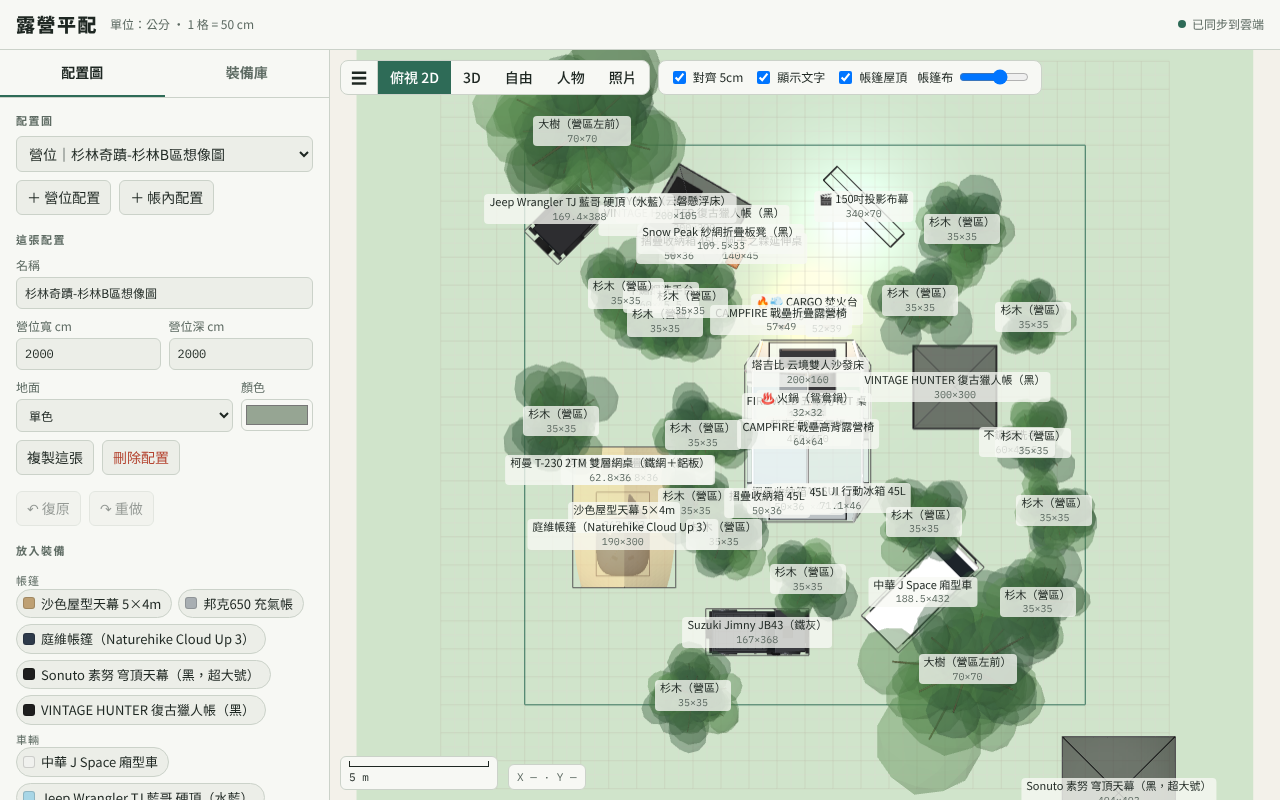
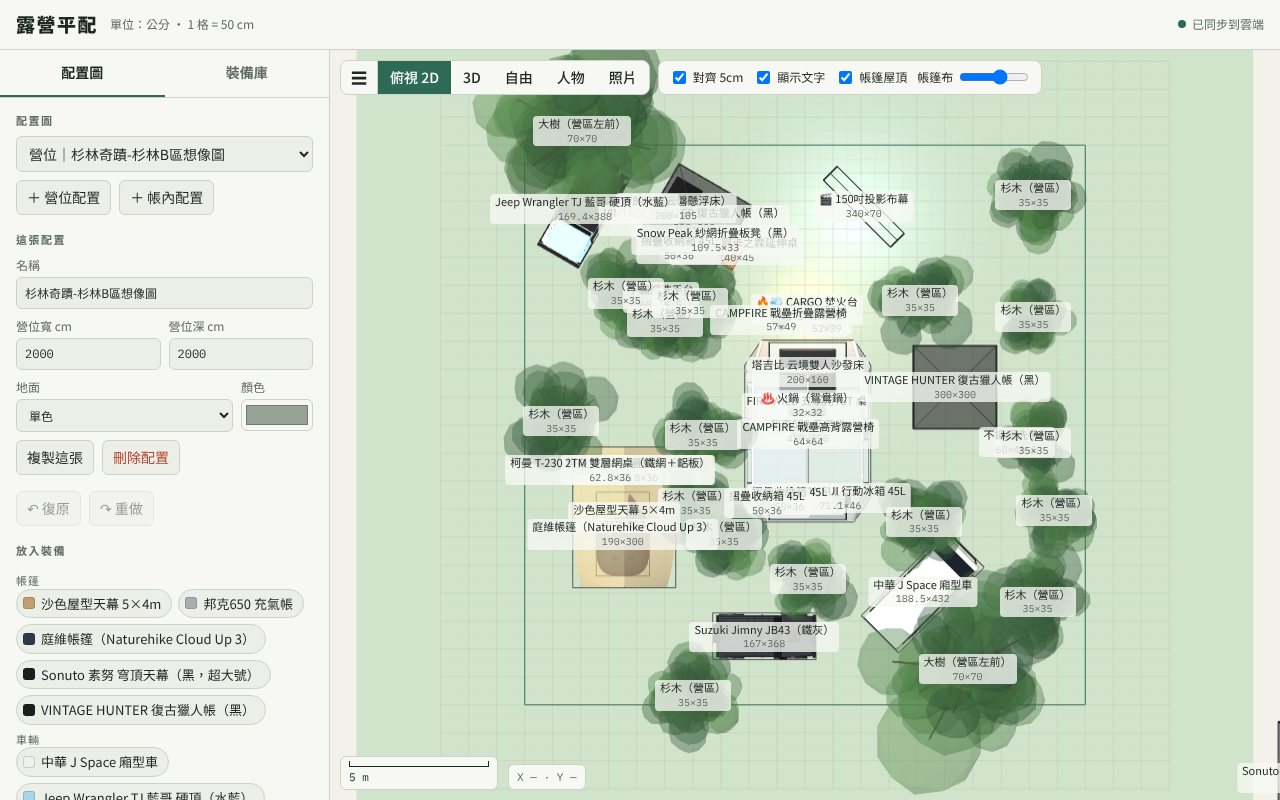
Update page to v29: sound toggle, sit/lie poses, lock all trees/tents
Claude-Session: https://claude.ai/code/session_015AG5FpWVGwHVAoYj3Q14zK

diff --git a/index.html b/index.html
@@ -97,6 +97,7 @@ input:focus-visible,select:focus-visible,button:focus-visible,textarea:focus-vis
 .fpPad button{height:40px;border:1px solid var(--line);border-radius:8px;background:var(--bg);font-size:16px;cursor:pointer;touch-action:none;color:inherit}
 .fpPad button.on{background:var(--accent);color:var(--accent-ink)}
 .fpUD{grid-template-columns:repeat(2,66px)}
+.fpPose{display:flex;gap:4px}.fpPose button{flex:1;height:36px;padding:0 8px;border:1px solid var(--line);border-radius:8px;background:var(--bg);color:inherit;cursor:pointer;font-size:13px;white-space:nowrap}.fpPose button[aria-pressed="true"]{background:var(--accent);color:var(--accent-ink);border-color:transparent}
 .fpEye{display:flex;align-items:center;gap:6px}.fpEye input{width:110px}
 .photo .rr{display:grid;grid-template-columns:64px 1fr 48px;gap:6px;align-items:center}
 .help{font-size:11px;color:var(--muted)}
@@ -111,6 +112,9 @@ kbd{font-family:var(--font-mono);font-size:10px;border:1px solid var(--line);bor
 @media (prefers-reduced-motion:reduce){*{transition:none!important}}
 /* panel toggle + compact toolbar options (phones) */
 .seg .sideBtn{font-size:16px;line-height:1;padding:6px 10px;border-right:1px solid var(--line)}
+.sndBtn{background:var(--panel);border:1px solid var(--line);border-radius:8px;padding:6px 10px;cursor:pointer;font-size:13px;font-weight:700;color:var(--ink);white-space:nowrap}
+.sndBtn[hidden]{display:none}
+.sndBtn[aria-pressed="true"]{color:var(--muted)}
 .tbBtn{display:none;background:var(--panel);border:1px solid var(--line);border-radius:8px;padding:6px 10px;cursor:pointer;font-size:14px}
 .sideShade{display:none}
 .sideClose{display:none;margin:8px 10px 0;align-self:flex-end;border:1px solid var(--line);background:var(--panel);border-radius:8px;padding:5px 10px;cursor:pointer;font-size:13px}
@@ -168,6 +172,7 @@ body.hideSide aside{display:none}
           <button data-v="walk" aria-pressed="false" title="160 cm 眼高的人物視角">人物</button>
           <button data-v="photo" aria-pressed="false">照片</button>
         </div>
+        <button class="sndBtn" id="sndBtn" title="投影聲音" aria-label="投影聲音" hidden>🔊 聲音開</button>
         <button class="tbBtn" id="tbBtn" title="顯示選項" aria-label="顯示選項">⚙</button>
         <button class="tbBtn" id="fsBtn" title="全螢幕" aria-label="全螢幕">⛶</button>
         <div class="tb">
@@ -187,6 +192,7 @@ body.hideSide aside{display:none}
           <button data-k="sl" aria-label="向左平移">◀</button><span></span><button data-k="sr" aria-label="向右平移">▶</button>
         </div>
         <div class="fpPad fpUD" id="fpUD"><button data-k="up" aria-label="上升">升</button><button data-k="down" aria-label="下降">降</button></div>
+        <div class="fpPose" id="fpPose"><button data-pose="stand" aria-pressed="true">🧍 站</button><button data-pose="sit" aria-pressed="false">🪑 坐下</button><button data-pose="lie" aria-pressed="false">🛌 躺下</button></div>
         <label class="fpEye" id="fpEyeRow">眼高 <input type="range" id="fpEye" min="60" max="200" step="5" value="160"> <span id="fpEyeTxt">160</span> cm</label>
       </div>
       <div class="photo" id="photoPanel" hidden>
@@ -397,7 +403,7 @@ function renderLayoutPane(){
       <div class="row"><label class="btn" style="flex:1;text-align:center">🎞 ${movieName?esc(movieName):"選擇影片檔…"}<input type="file" id="iMovie" accept="video/*" hidden></label>${movieVideo?`<button class="btn" id="iMute">${movieVideo.muted?"🔇":"🔊"}</button>`:""}</div>
       ${it.on && ytId(it.yt!==undefined?it.yt:g.yt) ? `<div class="row"><button class="btn" id="iYTSound">${ytMuted?"🔇 開聲音":"🔊 靜音"}</button></div>` : ""}
       <label class="f">YouTube 連結<input type="text" id="iYT" placeholder="貼上 YouTube 網址" value="${esc(it.yt!==undefined?it.yt:(g.yt?"https://youtu.be/"+g.yt:""))}"></label>
-      <div class="help">有 YouTube 連結時，布幕會播那部影片（預設有聲音；瀏覽器規定要先點一下畫面才會出聲，不想要聲音按「靜音」）。清空連結會改播動畫。也可以選電腦裡的影片檔，影片檔不會上傳，重新整理後要再選一次。</div>`:""}
+      <div class="help">有 YouTube 連結時，布幕會播那部影片（預設有聲音；瀏覽器規定要先點一下畫面才會出聲。上方工具列的「🔊 聲音開」可以隨時靜音）。清空連結會改播動畫。也可以選電腦裡的影片檔，影片檔不會上傳，重新整理後要再選一次。</div>`:""}
       ${isPit(g)?`<div class="sec"><h3>焚火台</h3><div class="chips">${[["off","🪵 熄火"],["fire","🔥 火"],["smoke","🔥💨 火＋煙"]].map(([k,n])=>`<button class="chip" data-fire="${k}" aria-pressed="${fireMode(it)===k}">${n}</button>`).join("")}</div></div>`:""}
       ${g.shape==="hotpot"?`<div class="row"><button class="btn ${it.boil?"primary":""}" id="iBoil">${it.boil?"♨ 煮滾中（按此關火）":"🍲 開火煮滾"}</button></div>`:""}
       <div class="row"><button class="btn ${it.locked?"primary":""}" id="iLock">${it.locked?"🔒 已鎖定（按此解鎖）":"🔓 鎖定位置"}</button></div>
@@ -419,7 +425,7 @@ function renderLayoutPane(){
     } else h += `<div class="empty">裝備庫還沒有東西，到「裝備庫」分頁新增。</div>`;
     h += `</div>`;
     const its = L.items.filter(i=>S.gear[i.gearId]);
-    if(its.length) h += `<div class="sec"><h3>物品清單</h3><div class="row"><button class="btn ${U.multiMode?"primary":""}" id="mMode">${U.multiMode?"☑ 多選模式中":"☐ 多選模式"}</button><button class="btn" id="mAll">全選（未鎖定）</button></div>${its.map(i=>{const g=S.gear[i.gearId]; return `<div class="row itrow ${isSel(i.uid)?"on":""}"><button class="lk" data-lock="${esc(i.uid)}" title="${i.locked?"解鎖":"鎖定"}" aria-label="${i.locked?"解鎖":"鎖定"} ${esc(g.name)}">${i.locked?"🔒":"🔓"}</button><button class="itn" data-pick="${esc(i.uid)}"><span class="sw" style="background:${esc(g.color)}"></span>${i.grp?"🔗 ":""}${esc(g.name)}</button></div>`;}).join("")}<div class="help">點 🔓 鎖定，鎖住的物品不會被拖動，點畫面時會選到它裡面或下面的東西；在畫面上連點兩下可以選到鎖住的物品。點名稱可以選取。</div></div>`;
+    if(its.length) h += `<div class="sec"><h3>物品清單</h3><div class="row"><button class="btn ${U.multiMode?"primary":""}" id="mMode">${U.multiMode?"☑ 多選模式中":"☐ 多選模式"}</button><button class="btn" id="mAll">全選（未鎖定）</button></div>${lockAllRow(its)}${its.map(i=>{const g=S.gear[i.gearId]; return `<div class="row itrow ${isSel(i.uid)?"on":""}"><button class="lk" data-lock="${esc(i.uid)}" title="${i.locked?"解鎖":"鎖定"}" aria-label="${i.locked?"解鎖":"鎖定"} ${esc(g.name)}">${i.locked?"🔒":"🔓"}</button><button class="itn" data-pick="${esc(i.uid)}"><span class="sw" style="background:${esc(g.color)}"></span>${i.grp?"🔗 ":""}${esc(g.name)}</button></div>`;}).join("")}<div class="help">點 🔓 鎖定，鎖住的物品不會被拖動，點畫面時會選到它裡面或下面的東西；在畫面上連點兩下可以選到鎖住的物品。點名稱可以選取。</div></div>`;
     h += `<div class="sec"><details><summary><strong>⌨ 快捷鍵（仿 CorelDRAW）</strong></summary><div class="help" style="line-height:1.9">
       <kbd>Shift</kbd>/<kbd>Ctrl</kbd>+點 加選・減選<br><kbd>Ctrl</kbd>+<kbd>A</kbd> 全選（未鎖定）・<kbd>Esc</kbd> 取消選取<br>
       <kbd>Ctrl</kbd>+<kbd>G</kbd> 群組・<kbd>Ctrl</kbd>+<kbd>U</kbd> 解散群組<br>
@@ -486,6 +492,7 @@ $("#paneLayout").addEventListener("click", e => {
   if(b.dataset.pick && L){ const id=b.dataset.pick; if(U.multiMode || e.shiftKey || e.ctrlKey || e.metaKey) toggleSel(id); else if(U.sel===id && selIds().length===grpMembers(id).length) clearSel(); else selectOne(id); renderLayoutPane(); rebuildScene(); return; }
   if(b.dataset.ext!==undefined && L){ const it=selItem(); if(it){ it.ext=+b.dataset.ext; saveLayout(U.layoutId); rebuildScene(); renderLayoutPane(); } return; }
   if(b.id==="mMode"){ U.multiMode=!U.multiMode; renderLayoutPane(); return; }
+  if(b.dataset.lockall && L){ const its=L.items.filter(LOCK_KIND[b.dataset.lockall]); const lock=its.some(i=>!i.locked); its.forEach(i=>{ i.locked=lock; }); if(lock){ U.multi=(U.multi||[]).filter(u=>!its.some(i=>i.uid===u)); } saveLayout(U.layoutId); renderLayoutPane(); rebuildScene(); return; }
   if(b.id==="mAll" && L){ U.multi=L.items.filter(i=>!i.locked && S.gear[i.gearId]).map(i=>i.uid); U.sel=U.multi[U.multi.length-1]||null; renderLayoutPane(); rebuildScene(); return; }
   if(b.id==="mRot") return rotateGroup(90);
   if(b.id==="mDup") return dupGroup();
@@ -498,9 +505,9 @@ $("#paneLayout").addEventListener("click", e => {
   if(b.id==="cpPlace"){ U.placing=!U.placing; renderLayoutPane(); return; }
   if(b.id==="mDel") return delGroup();
   if(b.id==="mNone"){ clearSel(); renderLayoutPane(); rebuildScene(); return; }
-  if(b.id==="iYTSound"){ ytMuted=!ytMuted; ytCmd(ytMuted?"mute":"unMute"); ytCmd("playVideo"); renderLayoutPane(); return; }
+  if(b.id==="iYTSound"){ setSound(ytMuted); return; }
   if(b.id==="iScreen"){ const it=selItem(); if(it){ it.on=!it.on; saveLayout(U.layoutId); renderLayoutPane(); rebuildScene(); } return; }
-  if(b.id==="iMute" && movieVideo){ movieVideo.muted=!movieVideo.muted; movieSound=!movieVideo.muted; if(!movieVideo.paused||screensOn) movieVideo.play().catch(()=>{}); renderLayoutPane(); return; }
+  if(b.id==="iMute" && movieVideo){ setSound(movieVideo.muted); return; }
   if(b.dataset.fire && L){ const it=selItem(); if(it){ const k=b.dataset.fire; it.fire = k==="off" ? false : k==="smoke" ? "smoke" : true; saveLayout(U.layoutId); renderLayoutPane(); rebuildScene(); } return; }
   if(b.id==="iBoil"){ const it=selItem(); if(it){ it.boil=!it.boil; saveLayout(U.layoutId); renderLayoutPane(); rebuildScene(); } return; }
   if(b.id==="iLock"){ const it=selItem(); if(it){ it.locked=!it.locked; saveLayout(U.layoutId); renderLayoutPane(); rebuildScene(); } return; }
@@ -589,6 +596,11 @@ function regroup(list){ const m={}; list.forEach(c=>{ if(c.grp){ m[c.grp]=m[c.gr
 function selectOne(id){ U.multi=grpMembers(id); U.sel=id; }
 function groupSel(){ const its=selItems(); if(its.length<2) return; const g=uid("g"); its.forEach(i=>i.grp=g); saveLayout(U.layoutId); rebuildScene(); renderLayoutPane(); }
 function ungroupSel(){ const its=selItems(); if(!its.some(i=>i.grp)) return; its.forEach(i=>delete i.grp); saveLayout(U.layoutId); rebuildScene(); renderLayoutPane(); }
+/* lock or unlock every tree / every tent in the layout with one button */
+const LOCK_KIND = { tree: i=>{ const g=S.gear[i.gearId]; return g && g.shape==="tree"; }, tent: i=>{ const g=S.gear[i.gearId]; return g && (g.shape==="tent" || g.cat==="帳篷"); } };
+function lockAllRow(its){ const out=[]; [["tree","🌲","樹木"],["tent","⛺","帳篷"]].forEach(([k,ic,n])=>{ const list=its.filter(LOCK_KIND[k]); if(!list.length) return; const all=list.every(i=>i.locked);
+  out.push(`<button class="btn ${all?"primary":""}" data-lockall="${k}" title="${list.length} 個${n}">${ic} ${all?"🔒 解除固定所有"+n:"固定所有"+n}（${list.length}）</button>`); });
+  return out.length?`<div class="row">${out.join("")}</div>`:""; }
 function selectAll(){ const L=curLayout(); if(!L) return; U.multi=L.items.filter(i=>!i.locked && S.gear[i.gearId]).map(i=>i.uid); U.sel=U.multi[U.multi.length-1]||null; rebuildScene(); renderLayoutPane(); }
 function toggleSel(id){ let m = selIds(); const g=grpMembers(id); if(m.includes(id)){ m=m.filter(x=>!g.includes(x)); U.multi=m; U.sel=m[m.length-1]||null; } else { g.forEach(x=>{ if(!m.includes(x)) m.push(x); }); U.multi=m; U.sel=id; } }
 function moveSel(dx,dy){ selItems().filter(i=>!i.locked).forEach(i=>{ i.x+=dx; i.y+=dy; }); saveLayout(U.layoutId); rebuildScene(); renderLayoutPane(); }
@@ -660,7 +672,7 @@ const topCtl = new THREE.OrbitControls(topCam, renderer.domElement);
 topCtl.enableRotate=false; topCtl.screenSpacePanning=true; topCtl.mouseButtons={LEFT:THREE.MOUSE.PAN, MIDDLE:THREE.MOUSE.DOLLY, RIGHT:THREE.MOUSE.PAN}; topCtl.touches={ONE:THREE.TOUCH.PAN, TWO:THREE.TOUCH.DOLLY_PAN}; topCtl.minZoom=0.2; topCtl.maxZoom=20;
 const perCtl = new THREE.OrbitControls(perCam, renderer.domElement);
 const fpCam = new THREE.PerspectiveCamera(65, 1, 1, 50000); fpCam.rotation.order = "YXZ";
-const FP = {x:0, y:160, z:0, yaw:0, pitch:0, eye:160, init:null, keys:{}, look:null};
+const FP = {x:0, y:160, z:0, yaw:0, pitch:0, eye:160, pose:"stand", init:null, keys:{}, look:null};
 perCtl.maxPolarAngle = Math.PI/2 - 0.02; perCtl.enableDamping=true;
 const world = new THREE.Group(); scene.add(world);
 let itemGroups = {};
@@ -966,6 +978,14 @@ let ytWanted = [], ytLive = {}, ytMuted = false;   /* sound on by default; the u
 /* Browsers only allow sound after the user has tapped the page once, so videos start muted and get unmuted on the first tap (or right away if the page was already tapped). */
 function userActive(){ return !navigator.userActivation || navigator.userActivation.hasBeenActive; }
 function wantSound(){ if(!ytMuted){ ytCmd("unMute"); ytCmd("playVideo"); } if(movieVideo && movieVideo.muted && movieSound){ movieVideo.muted=false; movieVideo.play().catch(()=>{}); } }
+/* one switch for all projector sound, shown in the top toolbar while a screen is playing */
+function setSound(on){ ytMuted=!on; movieSound=on; ytCmd(on?"unMute":"mute"); ytCmd("playVideo");
+  if(movieVideo){ movieVideo.muted=!on; if(!movieVideo.paused||screensOn) movieVideo.play().catch(()=>{}); }
+  updSnd(); renderLayoutPane(); }
+function updSnd(){ const b=document.getElementById("sndBtn"); if(!b) return; const playing = Object.keys(ytLive).length>0 || (movieVideo && screensOn>0);
+  b.hidden=!playing; const on=!ytMuted, wait=on && !userActive(); b.dataset.wait=wait?"1":""; b.textContent=wait?"🔈 點一下出聲":on?"🔊 聲音開":"🔇 已靜音"; b.setAttribute("aria-pressed", String(!on)); b.title=on?"點一下靜音":"點一下開聲音"; }
+setInterval(updSnd, 600);
+document.addEventListener("click", e=>{ if(e.target.closest && e.target.closest("#sndBtn")){ const b=document.getElementById("sndBtn"); setSound(b.dataset.wait==="1" ? true : ytMuted); } });
 ["pointerdown","keydown","touchend"].forEach(ev=>window.addEventListener(ev, ()=>setTimeout(wantSound,0), true));
 function ytCmd(func){ for(const k in ytLive){ const f=ytLive[k].element.querySelector("iframe"); try{ f.contentWindow.postMessage(JSON.stringify({event:"command", func, args:[]}), "*"); }catch(err){} } }
 const cssScene = new THREE.Scene(); let cssR = null;
@@ -1180,17 +1200,24 @@ document.addEventListener("keyup", e => { const k=KEYMAP[e.code]; if(k) FP.keys[
 window.addEventListener("blur", () => { FP.keys={}; });
 $("#fpPanel").addEventListener("pointerdown", e => { const b=e.target.closest("[data-k]"); if(!b) return; e.preventDefault(); FP.keys[b.dataset.k]=true; b.classList.add("on"); b.setPointerCapture(e.pointerId); });
 ["pointerup","pointercancel","lostpointercapture"].forEach(ev => $("#fpPanel").addEventListener(ev, e => { const b=e.target.closest("[data-k]"); if(!b) return; FP.keys[b.dataset.k]=false; b.classList.remove("on"); }));
-$("#fpEye").addEventListener("input", e => { FP.eye=+e.target.value; $("#fpEyeTxt").textContent=FP.eye; if(U.view==="walk") FP.y=FP.eye; });
+$("#fpEye").addEventListener("input", e => { FP.eye=+e.target.value; $("#fpEyeTxt").textContent=FP.eye; if(U.view==="walk") FP.y=eyeH(); });
+/* posture in 人物 view: sitting on a camp chair puts the eyes ~105 cm up, lying on the ground ~28 cm and looking up at the sky */
+const POSE_EYE = {sit:105, lie:28};
+function eyeH(){ return POSE_EYE[FP.pose] || FP.eye; }
+function setPose(p){ const was=FP.pose; FP.pose=p; FP.y=eyeH();
+  if(p==="lie") FP.pitch=0.75; else if(was==="lie") FP.pitch=-0.08;
+  document.querySelectorAll("#fpPose [data-pose]").forEach(b=>b.setAttribute("aria-pressed", String(b.dataset.pose===p))); fpApply(); }
+$("#fpPose").addEventListener("click", e => { const b=e.target.closest("[data-pose]"); if(b) setPose(b.dataset.pose); });
 function fpPanelUI(){
   const walk = U.view==="walk";
   $("#fpHelp").innerHTML = walk ? "人物視角：<kbd>W</kbd><kbd>S</kbd> 或 ↑↓ 前進後退、<kbd>A</kbd><kbd>D</kbd> 平移、←→ 轉向、按住 <kbd>Shift</kbd> 跑步。拖曳畫面看四周。" : "自由視角：<kbd>W</kbd><kbd>S</kbd> 朝看的方向飛、<kbd>A</kbd><kbd>D</kbd> 平移、←→ 轉向、<kbd>空白</kbd>/<kbd>C</kbd> 上升下降、<kbd>Shift</kbd> 加速。拖曳畫面看四周。";
-  $("#fpUD").hidden = walk; $("#fpEyeRow").hidden = !walk;
+  $("#fpUD").hidden = walk; $("#fpEyeRow").hidden = !walk; $("#fpPose").hidden = !walk;
 }
 function fpEnter(v){
   const L=curLayout(); if(!L) return; const b=layoutBounds(L), cx=(b.x0+b.x1)/2, cz=(b.z0+b.z1)/2;
   if(v==="walk"){
     if(FP.init!=="walk"){ FP.x=cx; FP.z=b.z1+120; FP.yaw=0; FP.pitch=-0.08; }
-    FP.y=FP.eye; FP.pitch=Math.max(-0.9,Math.min(0.9,FP.pitch));
+    FP.y=eyeH(); FP.pitch=Math.max(-0.9,Math.min(FP.pose==="lie"?1.45:0.9,FP.pitch));
   } else if(FP.init!=="free"){
     if(FP.init==="walk"){ FP.y=Math.max(FP.y,FP.eye); }
     else { FP.x=perCam.position.x; FP.y=Math.max(60,perCam.position.y); FP.z=perCam.position.z; const d=new THREE.Vector3(); perCam.getWorldDirection(d); FP.yaw=Math.atan2(-d.x,-d.z); FP.pitch=Math.asin(Math.max(-1,Math.min(1,d.y))); }
@@ -1205,7 +1232,7 @@ function fpStep(){
   if(k.left) FP.yaw+=turn; if(k.right) FP.yaw-=turn;
   const fx=-Math.sin(FP.yaw), fz=-Math.cos(FP.yaw), rx=Math.cos(FP.yaw), rz=-Math.sin(FP.yaw);
   let f=(k.fwd?1:0)-(k.back?1:0), st=(k.sr?1:0)-(k.sl?1:0);
-  if(walk){ FP.x+=(fx*f+rx*st)*sp; FP.z+=(fz*f+rz*st)*sp; FP.y=FP.eye; }
+  if(walk){ FP.x+=(fx*f+rx*st)*sp; FP.z+=(fz*f+rz*st)*sp; FP.y=eyeH(); }
   else { const cp=Math.cos(FP.pitch); FP.x+=(fx*cp*f+rx*st)*sp; FP.z+=(fz*cp*f+rz*st)*sp; FP.y+=Math.sin(FP.pitch)*f*sp + ((k.up?1:0)-(k.down?1:0))*sp; FP.y=Math.max(20,FP.y); }
   fpApply();
 }
